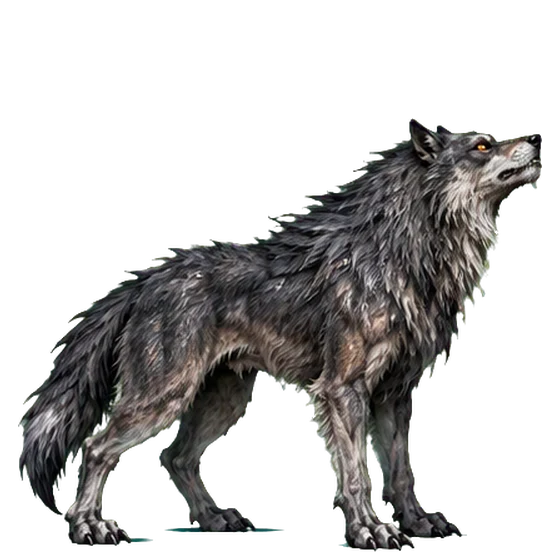
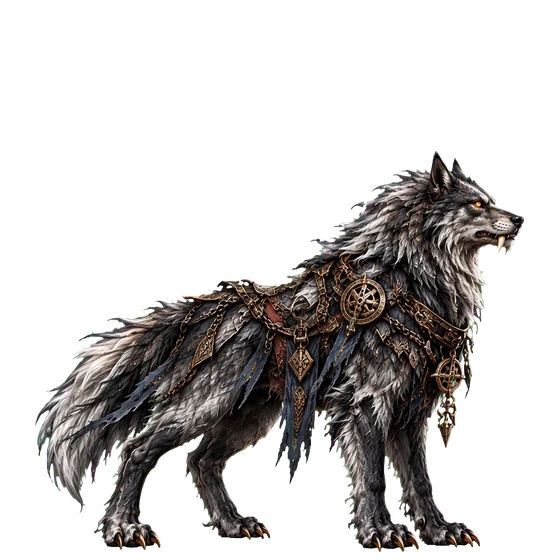
v4.25 1-2～1-4 怪物全身圖重新繪製
Claude-Session: https://claude.ai/code/session_012wDdS8pZei2SoX84rFULWA

diff --git a/index.html b/index.html
@@ -1889,7 +1889,7 @@ const VERSION=3;
 const ART_V='?v=3';  // 武器顯示圖改過透明度：加版本號，避免瀏覽器沿用舊快取
 // v3.76 第二界的 AI 圖還沒到：先借第一界的圖顯示，圖到了刪掉對應那一項就好
 const ART_WAIT={};
-const A=n=>(n=ART_WAIT[n]||n,(typeof UI_ART!=='undefined'&&UI_ART[n])||'art/'+n+'.webp'+(n.endsWith('_disp')?ART_V:/^(mon|boss|bg)_|^v\d+$/.test(n)?'?m=4.14':''));  // UI_ART（skin.js）可把既有圖示換成新素材路徑；預設空白＝不變
+const A=n=>(n=ART_WAIT[n]||n,(typeof UI_ART!=='undefined'&&UI_ART[n])||'art/'+n+'.webp'+(n.endsWith('_disp')?ART_V:/^(mon|boss|bg)_|^v\d+$/.test(n)?'?m=4.25':''));  // UI_ART（skin.js）可把既有圖示換成新素材路徑；預設空白＝不變
 const MATS={iron:'鐵礦',oak:'橡木',leather:'皮革',silver:'霜銀',fang:'狼牙',scale:'龍鱗',rainbow:'虹橋碎晶',rune:'符文石',shard:'符文碎片',fur:'魔狼黑毛',icecore:'霜巨人冰核',fireheart:'火巨人焰心',serpent:'海蛇鱗',giantbone:'巨人骨',permafrost:'永凍霜晶',thunderiron:'雷鳴鐵',elderroot:'世界樹古根',hrelic:'霍夫德劍柄',srelic:'斯卡蒂弓臂'};
 const MATART={iron:'mat_iron',oak:'mat_oak',leather:'mat_leather',silver:'mat_silver',fang:'mat_fang',scale:'mat_scale',rainbow:'mat_rainbow',rune:'mat_rune',shard:'mat_shard',fur:'mat_fur',icecore:'mat_icecore',fireheart:'mat_fireheart',serpent:'mat_serpent',giantbone:'mat_giantbone',permafrost:'mat_permafrost',thunderiron:'mat_thunderiron',elderroot:'mat_elderroot',hrelic:'mat_hrelic',srelic:'mat_srelic'};
 const CATS={axe:'斧',sword:'劍',dagger:'短刃',polearm:'長柄',hammer:'錘',bow:'弓',crossbow:'弩',shield:'盾',throw:'投擲',tool:'工具'};
@@ -2181,7 +2181,7 @@ function loadState(){
 function save(){if(QUIET)return;S.savedAt=Date.now();CLOUD.dirty=true;if(CLOUD_ONLY)return;try{localStorage.setItem(KEY,JSON.stringify(S))}catch(e){}}
 
 /* ---------- v3.34 雲端帳號與存檔（Supabase：Email＋密碼；本機照常存，定時與離開時同步到雲端） ---------- */
-const BUILD_ID='4.23';const BUILD='v'+BUILD_ID+' 封測';const BETA=true;
+const BUILD_ID='4.25';const BUILD='v'+BUILD_ID+' 封測';const BETA=true;
 const MAINT=true;   // v4.18 封測暫停：開遊戲只看到維護公告，一般玩家進不去；只有管理員（admins 表）登入後能進。重新開放：改成 false 並更新 BUILD_ID
 const SB_URL='https://bzvilstgpjkztrydjwlt.supabase.co',SB_KEY='sb_publishable_CMSLltB8qKwMU3nUFezthw_HRm3EBN4',AUTH_KEY='nrs-auth';
 const CLOUD={dirty:false,busy:false,last:0,err:'',state:'off',ready:false,kicked:false};let SID=null;
@@ -3001,6 +3001,7 @@ function sndSettings(){if(ui.sheet&&ui.sheet.t==='set')return render();ui.result
 // v4.03 遊戲內公告＋玩法說明（Mochi 選：右上角齒輪取代喇叭、內容寫在程式裡、不自動跳出只亮紅點）
 // 每次更新：在 NW_LOG 最上面加一則（g＝這次改到的玩法 key），並把 GUIDE 裡對應項目的內容和 v 改成新版本 → 沒看過的玩家會看到 NEW、齒輪亮紅點
 const NW_LOG=[
+ {v:'4.25',d:'10/24',t:'1-2～1-4 怪物全身圖重新繪製',b:['1-2 賽赫利姆尼爾：身上多了英靈殿每晚被宰殺留下的傷疤','1-3 哈提：披著符文鎖鏈馬具的巨狼','1-4 斯庫爾：背上的冰刺更完整，撲擊動作更有力'],g:['hit']},
  {v:'4.23',d:'10/24',t:'第一界 10 隻怪物都有全身圖了',b:['1-5 瓦爾拉文（戰場鴉魔）：半鴉半狼，爪子抓著撕破的戰旗','1-6 克拉肯（深海巨怪）、1-7 山怪特羅爾（披著龍鱗的石皮巨魔）','1-8 石心巨人赫朗格尼爾（扛著磨刀石巨棒）、1-9 穆斯貝爾騎兵（騎著火鬃戰馬）、1-10 守望之神海姆達爾','點怪物小圖展開戰鬥畫面，就能看到待機和攻擊的動作'],g:['hit']},
  {v:'4.22',d:'10/24',t:'戰鬥畫面新增 3 隻全身怪物',b:['1-2 賽赫利姆尼爾（不死野豬）、1-3 哈提（追月之狼）、1-4 斯庫爾（追日之狼）換成全身圖','點怪物小圖展開戰鬥畫面，就會看到牠們待機和撲上來攻擊的動作'],g:['hit']},
  {v:'4.21',d:'10/24',t:'戰鬥畫面改成點了才展開',b:['村莊卡片平常維持原本的怪物小圖動畫','<b>點怪物小圖</b>才會展開騎士與怪物的戰鬥畫面，一次只會開一個；點戰鬥畫面就收起來','戰鬥畫面裡兩下連續傷害的數字分開一點，不再疊在一起'],g:['hit']},

diff --git a/src/game.js b/src/game.js
@@ -4,7 +4,7 @@ const VERSION=3;
 const ART_V='?v=3';  // 武器顯示圖改過透明度：加版本號，避免瀏覽器沿用舊快取
 // v3.76 第二界的 AI 圖還沒到：先借第一界的圖顯示，圖到了刪掉對應那一項就好
 const ART_WAIT={};
-const A=n=>(n=ART_WAIT[n]||n,(typeof UI_ART!=='undefined'&&UI_ART[n])||'art/'+n+'.webp'+(n.endsWith('_disp')?ART_V:/^(mon|boss|bg)_|^v\d+$/.test(n)?'?m=4.14':''));  // UI_ART（skin.js）可把既有圖示換成新素材路徑；預設空白＝不變
+const A=n=>(n=ART_WAIT[n]||n,(typeof UI_ART!=='undefined'&&UI_ART[n])||'art/'+n+'.webp'+(n.endsWith('_disp')?ART_V:/^(mon|boss|bg)_|^v\d+$/.test(n)?'?m=4.25':''));  // UI_ART（skin.js）可把既有圖示換成新素材路徑；預設空白＝不變
 const MATS={iron:'鐵礦',oak:'橡木',leather:'皮革',silver:'霜銀',fang:'狼牙',scale:'龍鱗',rainbow:'虹橋碎晶',rune:'符文石',shard:'符文碎片',fur:'魔狼黑毛',icecore:'霜巨人冰核',fireheart:'火巨人焰心',serpent:'海蛇鱗',giantbone:'巨人骨',permafrost:'永凍霜晶',thunderiron:'雷鳴鐵',elderroot:'世界樹古根',hrelic:'霍夫德劍柄',srelic:'斯卡蒂弓臂'};
 const MATART={iron:'mat_iron',oak:'mat_oak',leather:'mat_leather',silver:'mat_silver',fang:'mat_fang',scale:'mat_scale',rainbow:'mat_rainbow',rune:'mat_rune',shard:'mat_shard',fur:'mat_fur',icecore:'mat_icecore',fireheart:'mat_fireheart',serpent:'mat_serpent',giantbone:'mat_giantbone',permafrost:'mat_permafrost',thunderiron:'mat_thunderiron',elderroot:'mat_elderroot',hrelic:'mat_hrelic',srelic:'mat_srelic'};
 const CATS={axe:'斧',sword:'劍',dagger:'短刃',polearm:'長柄',hammer:'錘',bow:'弓',crossbow:'弩',shield:'盾',throw:'投擲',tool:'工具'};
@@ -296,7 +296,7 @@ function loadState(){
 function save(){if(QUIET)return;S.savedAt=Date.now();CLOUD.dirty=true;if(CLOUD_ONLY)return;try{localStorage.setItem(KEY,JSON.stringify(S))}catch(e){}}
 
 /* ---------- v3.34 雲端帳號與存檔（Supabase：Email＋密碼；本機照常存，定時與離開時同步到雲端） ---------- */
-const BUILD_ID='4.23';const BUILD='v'+BUILD_ID+' 封測';const BETA=true;
+const BUILD_ID='4.25';const BUILD='v'+BUILD_ID+' 封測';const BETA=true;
 const MAINT=true;   // v4.18 封測暫停：開遊戲只看到維護公告，一般玩家進不去；只有管理員（admins 表）登入後能進。重新開放：改成 false 並更新 BUILD_ID
 const SB_URL='https://bzvilstgpjkztrydjwlt.supabase.co',SB_KEY='sb_publishable_CMSLltB8qKwMU3nUFezthw_HRm3EBN4',AUTH_KEY='nrs-auth';
 const CLOUD={dirty:false,busy:false,last:0,err:'',state:'off',ready:false,kicked:false};let SID=null;
@@ -1116,6 +1116,7 @@ function sndSettings(){if(ui.sheet&&ui.sheet.t==='set')return render();ui.result
 // v4.03 遊戲內公告＋玩法說明（Mochi 選：右上角齒輪取代喇叭、內容寫在程式裡、不自動跳出只亮紅點）
 // 每次更新：在 NW_LOG 最上面加一則（g＝這次改到的玩法 key），並把 GUIDE 裡對應項目的內容和 v 改成新版本 → 沒看過的玩家會看到 NEW、齒輪亮紅點
 const NW_LOG=[
+ {v:'4.25',d:'10/24',t:'1-2～1-4 怪物全身圖重新繪製',b:['1-2 賽赫利姆尼爾：身上多了英靈殿每晚被宰殺留下的傷疤','1-3 哈提：披著符文鎖鏈馬具的巨狼','1-4 斯庫爾：背上的冰刺更完整，撲擊動作更有力'],g:['hit']},
  {v:'4.23',d:'10/24',t:'第一界 10 隻怪物都有全身圖了',b:['1-5 瓦爾拉文（戰場鴉魔）：半鴉半狼，爪子抓著撕破的戰旗','1-6 克拉肯（深海巨怪）、1-7 山怪特羅爾（披著龍鱗的石皮巨魔）','1-8 石心巨人赫朗格尼爾（扛著磨刀石巨棒）、1-9 穆斯貝爾騎兵（騎著火鬃戰馬）、1-10 守望之神海姆達爾','點怪物小圖展開戰鬥畫面，就能看到待機和攻擊的動作'],g:['hit']},
  {v:'4.22',d:'10/24',t:'戰鬥畫面新增 3 隻全身怪物',b:['1-2 賽赫利姆尼爾（不死野豬）、1-3 哈提（追月之狼）、1-4 斯庫爾（追日之狼）換成全身圖','點怪物小圖展開戰鬥畫面，就會看到牠們待機和撲上來攻擊的動作'],g:['hit']},
  {v:'4.21',d:'10/24',t:'戰鬥畫面改成點了才展開',b:['村莊卡片平常維持原本的怪物小圖動畫','<b>點怪物小圖</b>才會展開騎士與怪物的戰鬥畫面，一次只會開一個；點戰鬥畫面就收起來','戰鬥畫面裡兩下連續傷害的數字分開一點，不再疊在一起'],g:['hit']},
